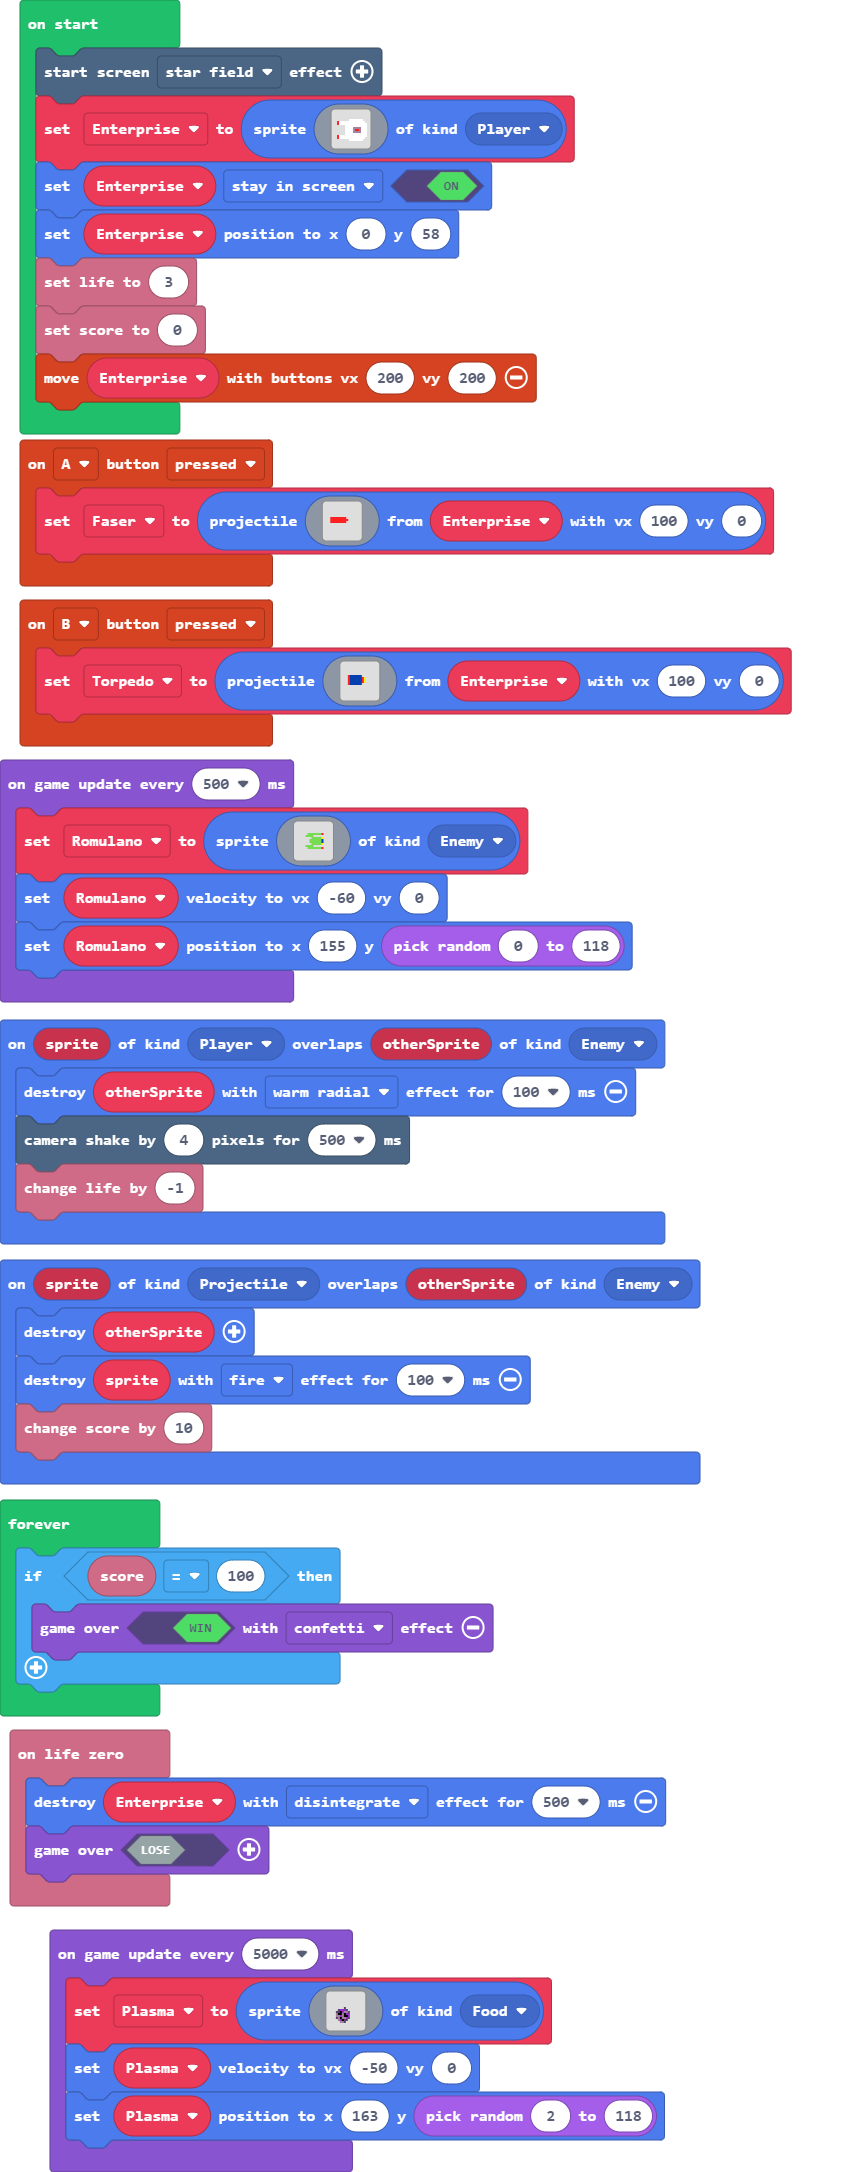
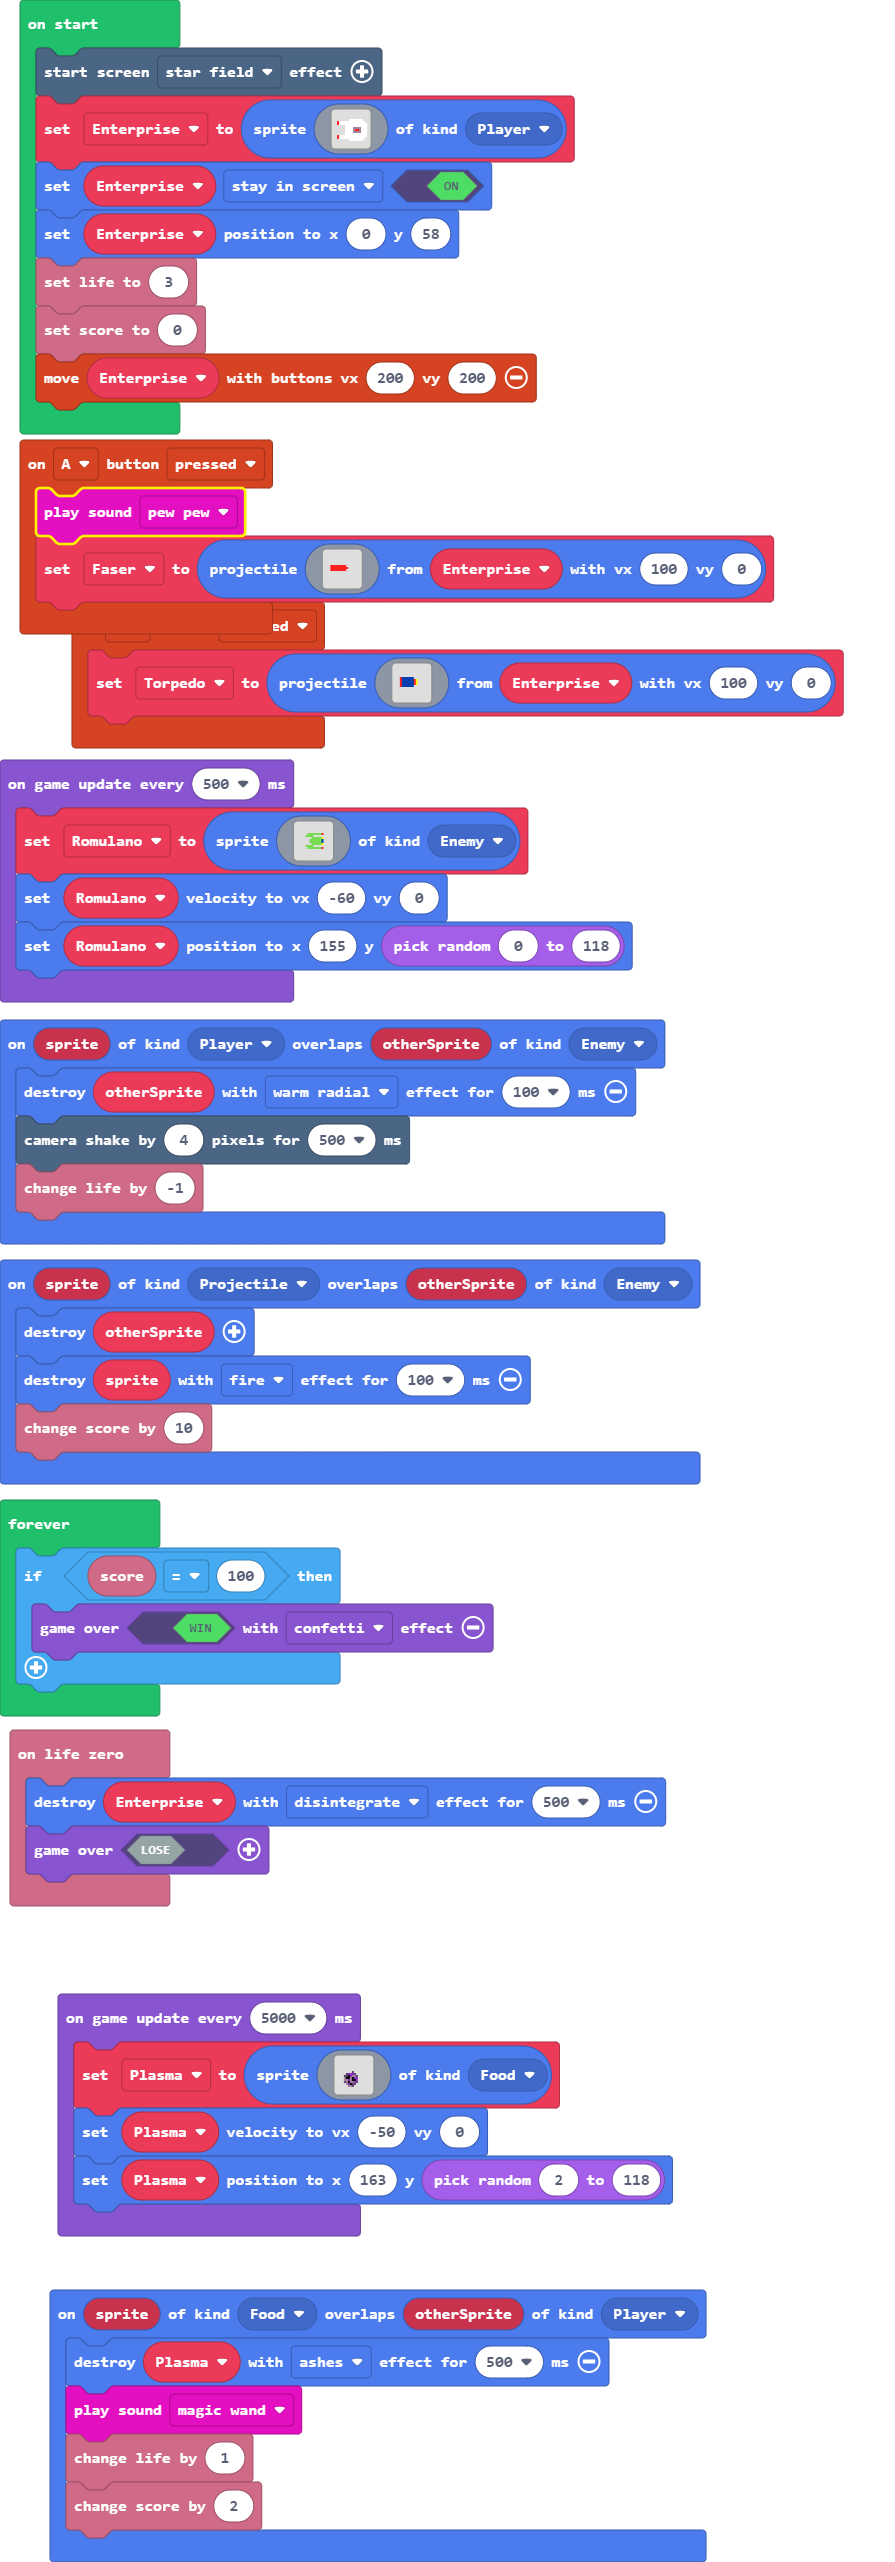
Update main.blocks, main.ts

diff --git a/main.ts b/main.ts
@@ -19,6 +19,7 @@ controller.B.onEvent(ControllerButtonEvent.Pressed, function () {
         `, Enterprise, 100, 0)
 })
 controller.A.onEvent(ControllerButtonEvent.Pressed, function () {
+    music.pewPew.play()
     Faser = sprites.createProjectileFromSprite(img`
         . . . . . . . . . . . . . . . . 
         . . . . . . . . . . . . . . . . 
@@ -37,6 +38,12 @@ controller.A.onEvent(ControllerButtonEvent.Pressed, function () {
         . . . . . . . . . . . . . . . . 
         . . . . . . . . . . . . . . . . 
         `, Enterprise, 100, 0)
+})
+sprites.onOverlap(SpriteKind.Food, SpriteKind.Player, function (sprite, otherSprite) {
+    Plasma.destroy(effects.ashes, 500)
+    music.magicWand.play()
+    info.changeLifeBy(1)
+    info.changeScoreBy(2)
 })
 info.onLifeZero(function () {
     Enterprise.destroy(effects.disintegrate, 500)
